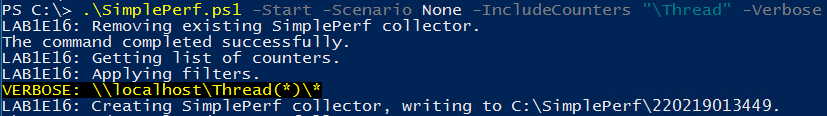
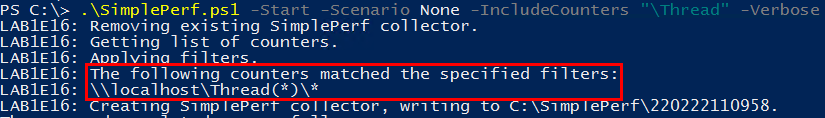
Update docs

diff --git a/docs/Performance/SimplePerf.md b/docs/Performance/SimplePerf.md
@@ -50,7 +50,23 @@ Starts a SimplePerf with the default options on the three named servers.
 ```
 Stops a running SimplePerf on the three named servers.
 
-## Advanced Usage
+## Using Named Collectors
+
+It is possible to run several SimplePerf collectors on the same computer at the same time by providing the **-CollectorName** parameter. For example:
+
+```powershell
+.\SimplePerf -Start -Interval 60 -CollectorName "Minute"
+.\SimplePerf -Start -Interval 5 -CollectorName "FiveSeconds"
+```
+
+When using collector names, the same name must be provided to the **-Stop** command:
+
+```powershell
+.\SimplePerf -Stop -CollectorName "Minute"
+.\SimplePerf -Stop -CollectorName "FiveSeconds"
+```
+
+## Counter Name Filters
 
 The counters collected by SimplePerf can be controlled with a combination of three parameters: **-Scenario**, **-IncludeCounters**, and **-ExcludeCounters**.
 
@@ -87,3 +103,11 @@ However, if we tell it to Include "\Thread" but exclude "\Thread(*)\Priority", w
 This filtering mechanism makes it easy to customize the counter set with minimal text. To check the result of your counter filters, add the **-Verbose** switch, or check the counters txt file in $env:TEMP.
 
 Note that the resulting set can only show counters that exist on the local machine. For instance, you won't see any Exchange counters in the Verbose output if the script is not running on an Exchange Server.
+
+## Language Support
+
+SimplePerf works regardless of the current language. It does this by translating the provided counter filters to whatever the current server language happens to be. This means that counter names must always be provided in English, even when the current language is not English.
+
+For example, here is the same command from the earlier example running on a server where Spanish is the current language:
+
+![Verbose SimplePerf Screenshot](SimplePerf4.png)
